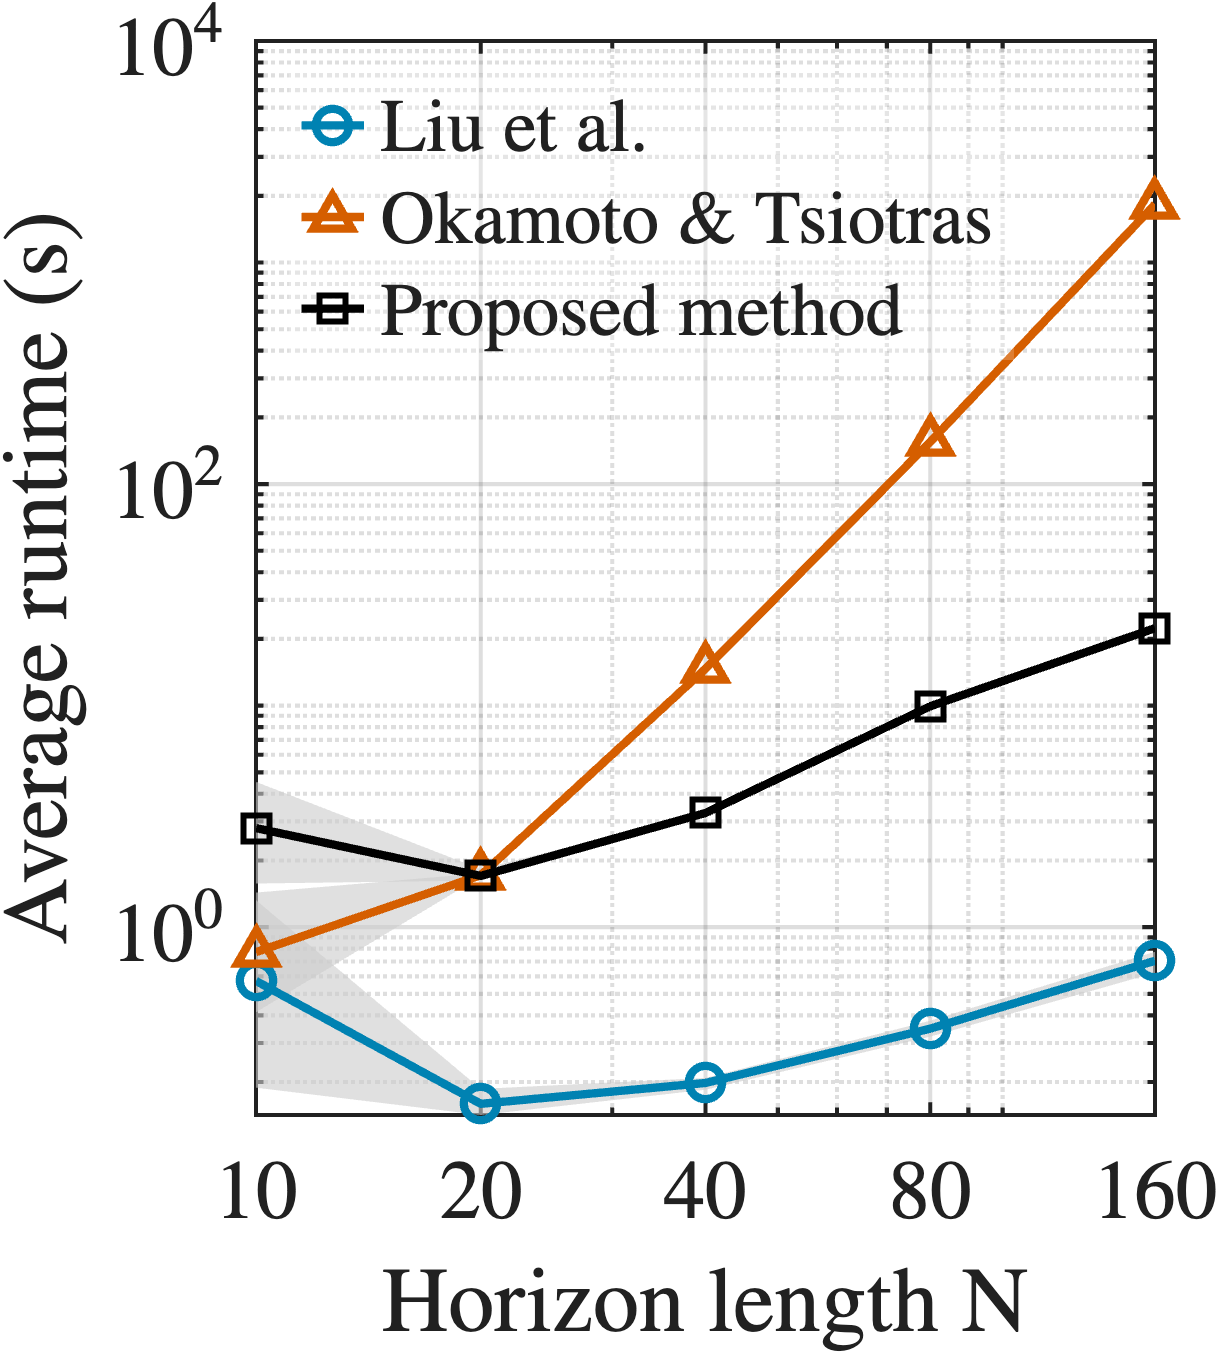
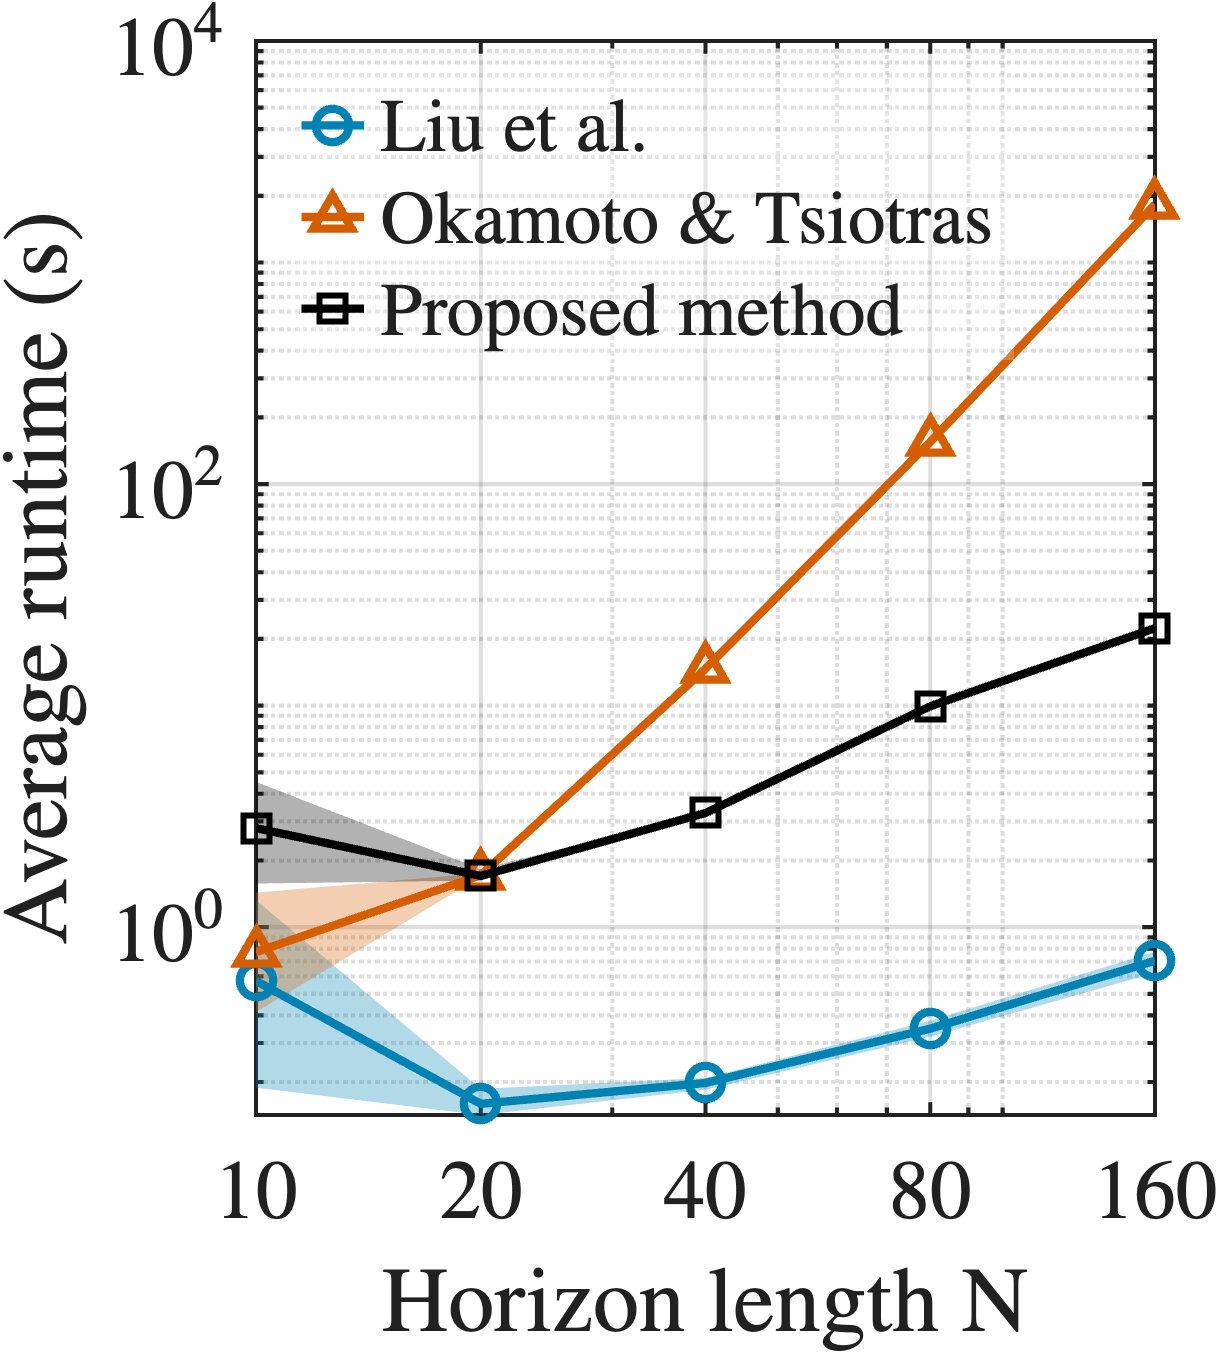
improve plots in paper

diff --git a/horizon_size_scalability.m b/horizon_size_scalability.m
@@ -1,5 +1,7 @@
 %% Scalability vs Horizon Size: 3D Double Integrator System
 % Fixed total horizon time; dt changes with N
+% To produce plots without rerunning the simulation, load
+% data/horizon_size_scalability_results.mat
 clear; clc;
 addpath ./SCvxStar/src/
 addpath(genpath('./utils'))
@@ -7,6 +9,7 @@ addpath('./src')
 
 figure_settings
 
+%%
 % Fixed total time and horizon sizes to test
 T_total = 3.0;                  % total time [s]
 N_list = [10, 20, 40, 80, 160]; % different horizon lengths to test
@@ -294,19 +297,19 @@ hold on;
 % Full covariance method
 x_fill_full = [N_list, fliplr(N_list)];
 y_fill_full = [min_full', fliplr(max_full')];
-fill(x_fill_full, y_fill_full, [0.8, 0.8, 0.8], 'EdgeColor', 'none', 'FaceAlpha', 0.6, HandleVisibility='off');
+fill(x_fill_full, y_fill_full, "", 'FaceColor', '#0082B2', 'EdgeColor', 'none', 'FaceAlpha', 0.3, HandleVisibility='off');
 
 % Block Cholesky method
 x_fill_block = [N_list, fliplr(N_list)];
 y_fill_block = [min_block', fliplr(max_block')];
-fill(x_fill_block, y_fill_block, [0.8, 0.8, 0.8], 'EdgeColor', 'none', 'FaceAlpha', 0.6, HandleVisibility='off');
+fill(x_fill_block, y_fill_block, "", 'FaceColor', '#D55E00', 'EdgeColor', 'none', 'FaceAlpha', 0.3, HandleVisibility='off');
 
 % SqrtQR method (only where valid)
 valid_qr_idx = ~isnan(avg_qr);
 if any(valid_qr_idx)
     x_fill_qr = [N_list(valid_qr_idx), fliplr(N_list(valid_qr_idx))];
     y_fill_qr = [min_qr(valid_qr_idx)', fliplr(max_qr(valid_qr_idx)')];
-    fill(x_fill_qr, y_fill_qr, [0.8, 0.8, 0.8], 'EdgeColor', 'none', 'FaceAlpha', 0.6, HandleVisibility='off');
+    fill(x_fill_qr, y_fill_qr, "", 'FaceColor', '#000000', 'EdgeColor', 'none', 'FaceAlpha', 0.3, HandleVisibility='off');
 end
 
 % Plot mean lines
@@ -336,7 +339,7 @@ xlim([N_list(1) N_list(end)])
 ylim([0.99, max(avg_block_opt./avg_full_opt)])
 xscale log
 
-% exportgraphics(gcf, 'figures/horizon_size_cost_comparision_small.png', Resolution=300)
+exportgraphics(gcf, 'figures/horizon_size_cost_comparision_small.png', Resolution=300)
 exportgraphics(gcf, 'figures/horizon_size_cost_comparision_small.pdf', ContentType='vector')
 
 %%
